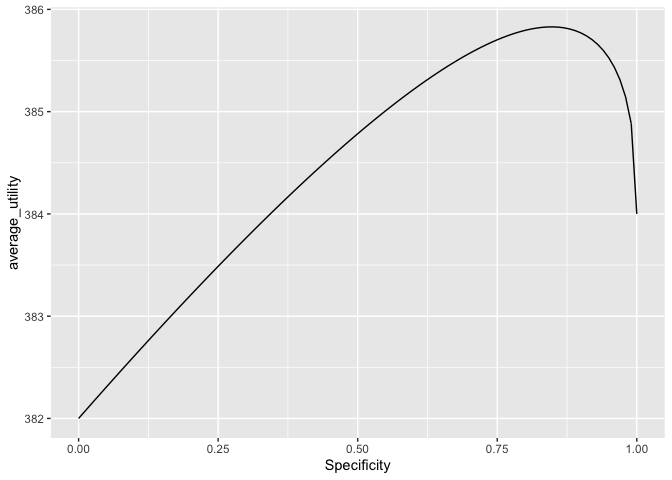
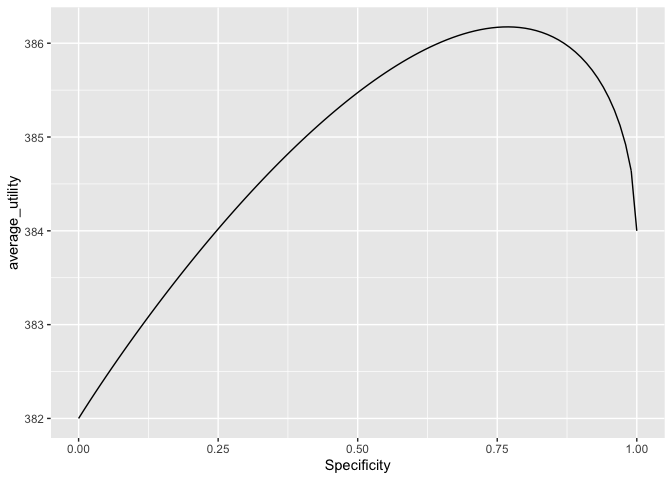
fix example

diff --git a/rebalance/Utility_Calc.md b/rebalance/Utility_Calc.md
@@ -114,7 +114,7 @@ f = 0.5
 fn <- function(specificity) {
   roc_curve <- data.frame(
     Specificity = specificity,
-    Sensitivity = 1 - (1 -  (1-specificity)^q^(1/q)) # our model
+    Sensitivity = 1 - (1 -  (1-specificity)^q)^(1/q) # our model
   )
   roc_curve <- sigr::add_ROC_derived_columns(roc_curve, p)
   
@@ -149,28 +149,23 @@ str(d_utility[best_idx, ])
 ```
 
     ## 'data.frame':    1 obs. of  11 variables:
-    ##  $ Specificity              : num 0.85
-    ##  $ Sensitivity              : num 0.43
-    ##  $ FalsePositiveRate        : num 0.15
-    ##  $ TruePositiveRate         : num 0.43
-    ##  $ TrueNegativeRate         : num 0.85
-    ##  $ FalseNegativeRate        : num 0.57
-    ##  $ false_positive_prevalence: num 0.144
-    ##  $ true_positive_prevalence : num 0.0172
-    ##  $ true_negative_prevalence : num 0.816
-    ##  $ false_negative_prevalence: num 0.0228
+    ##  $ Specificity              : num 0.77
+    ##  $ Sensitivity              : num 0.577
+    ##  $ FalsePositiveRate        : num 0.23
+    ##  $ TruePositiveRate         : num 0.577
+    ##  $ TrueNegativeRate         : num 0.77
+    ##  $ FalseNegativeRate        : num 0.423
+    ##  $ false_positive_prevalence: num 0.221
+    ##  $ true_positive_prevalence : num 0.0231
+    ##  $ true_negative_prevalence : num 0.739
+    ##  $ false_negative_prevalence: num 0.0169
     ##  $ average_utility          : num 386
 
 Using the idea curve for optimization has the advantage that we are
 working with a smooted estimate that depends on all of the data.
 
 The model says, for this population, and these costs, our best trade-off
-is to run at specificity 0.85 and sensitivity 0.43. This means we call
-just under half of the at-risk customers while wasting interventions on
-only 15 percent of the not at-risk customers. Due to the rareness of
-cancellation this means our precision is in fact only 1721/(1721 +
-2279), or only 43 percent (again the sensitivity). So half the
-interventions are wasted, as the model can’t tell us which half is
-wasted\! The optimal solution is trading-off cost of interaction with
-possible loss of revenue. With different rates, revenue, and costs we
-would have a different optimum trade-off.
+is to run at specificity 0.77 and sensitivity 0.58. This optimal
+solution is trading-off cost of interaction with possible loss of
+revenue. With different rates, revenue, and costs we would have a
+different optimum trade-off.
